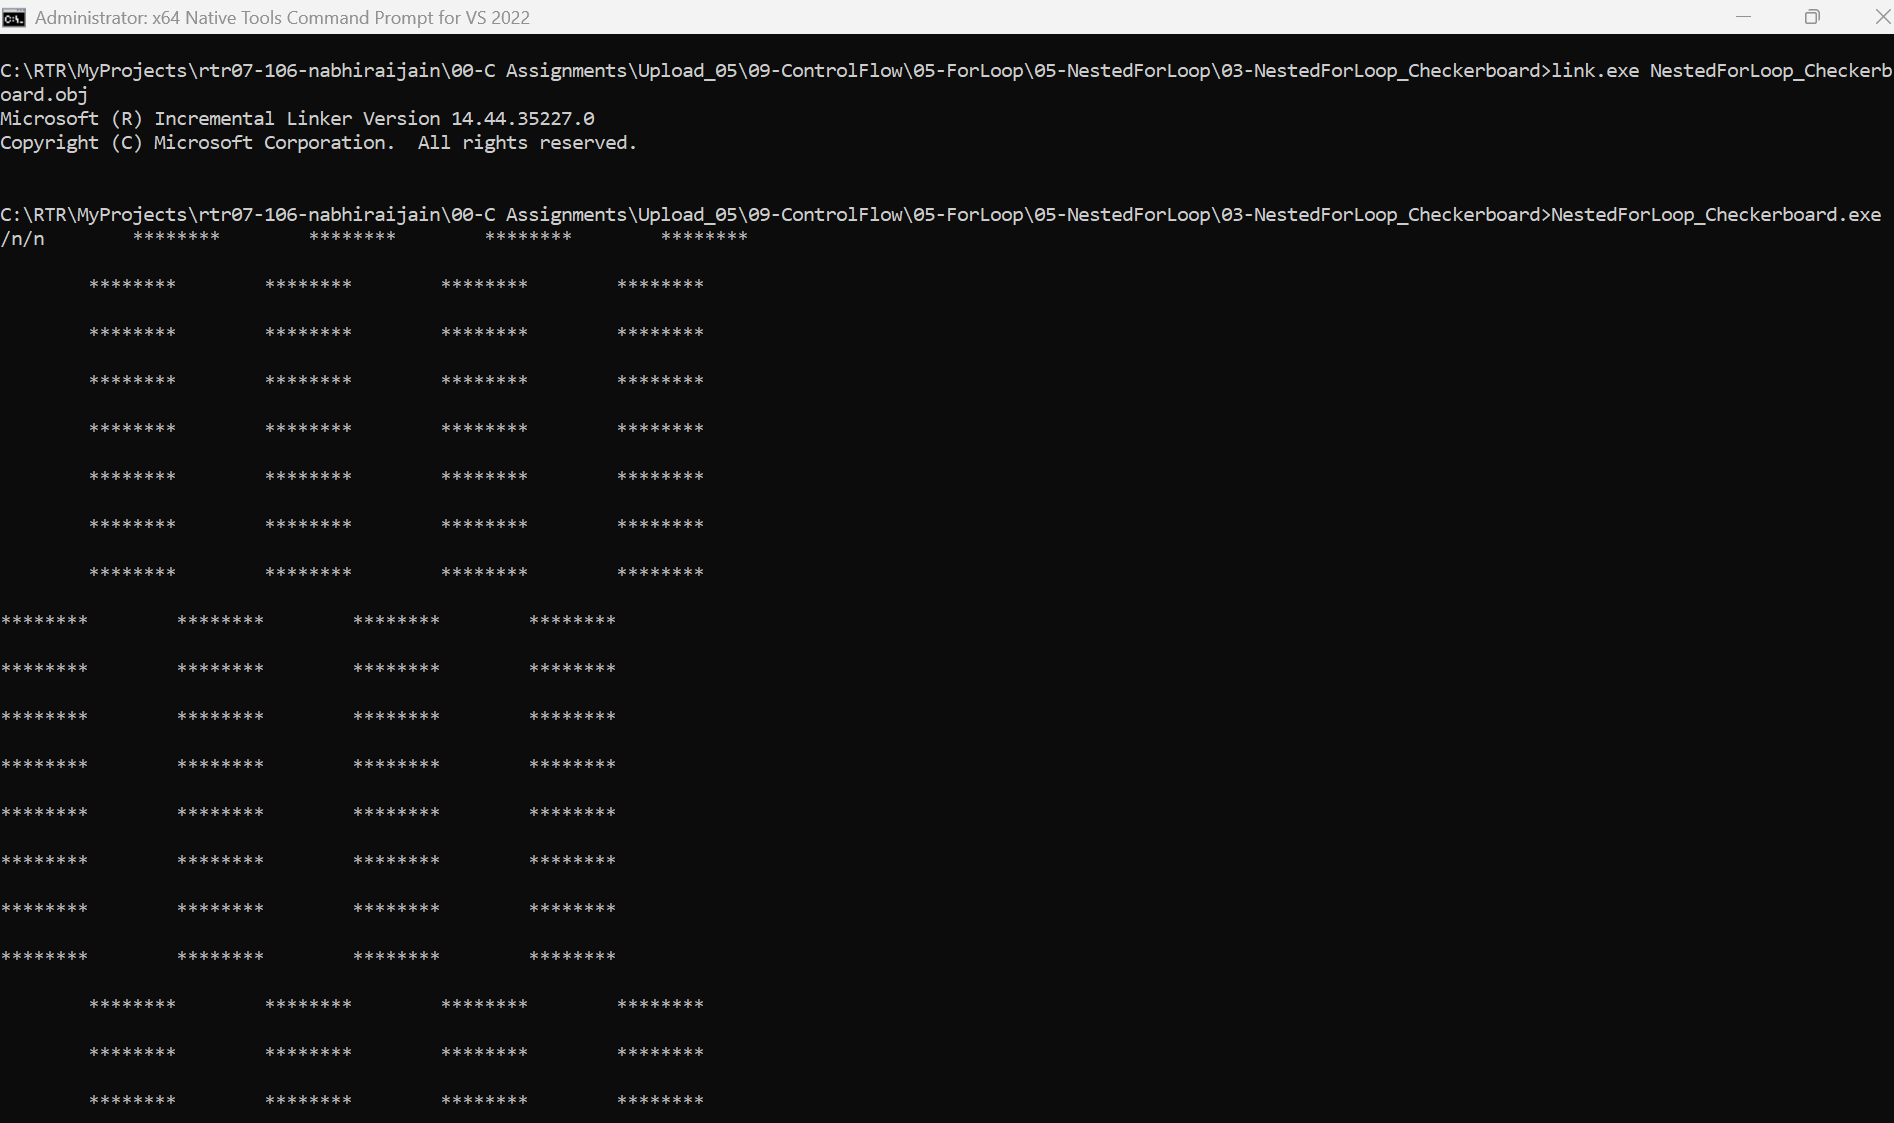
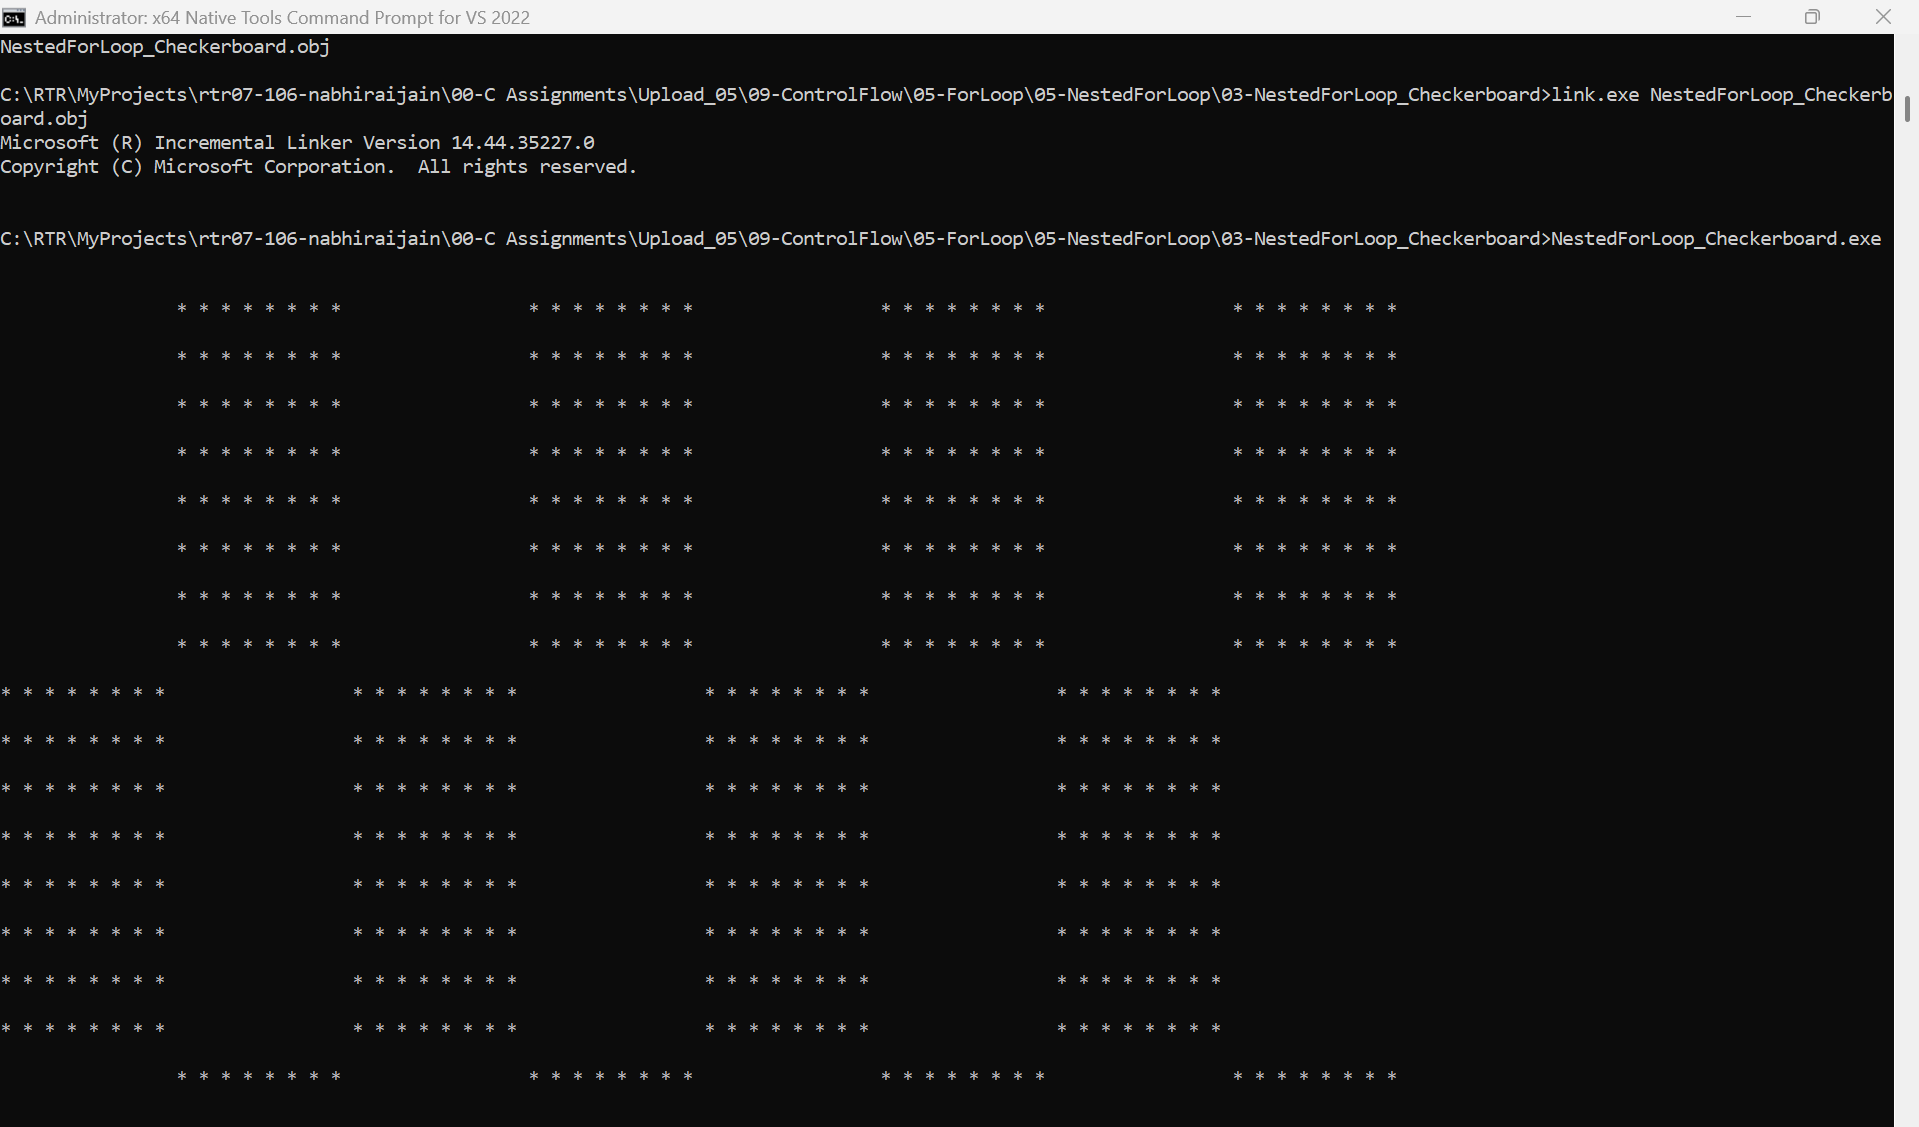
with changes

diff --git a/00-C Assignments/Upload_05/09-ControlFlow/05-ForLoop/05-NestedForLoop/03-NestedForLoop_Checkerboard/NestedForLoop_Checkerboard.c b/00-C Assignments/Upload_05/09-ControlFlow/05-ForLoop/05-NestedForLoop/03-NestedForLoop_Checkerboard/NestedForLoop_Checkerboard.c
@@ -5,7 +5,7 @@ int main(void)
 	int nrj_i, nrj_j, nrj_c;
 
 	//code
-	printf("/n/n");
+	printf("\n\n");
 	for (nrj_i = 0; nrj_i < 64; nrj_i++)
 	{
 		for (nrj_j = 0; nrj_j < 64; nrj_j++)
@@ -16,9 +16,9 @@ int main(void)
 
 			nrj_c = ((nrj_i & 0x8) == 0) ^ ((nrj_j & 0x8) == 0);  
 			if (nrj_c == 0)
-				printf(" ");
+				printf("  ");
 			if (nrj_c == 1)
-				printf("*");
+				printf("* ");
 
          }
 		printf("\n\n");
